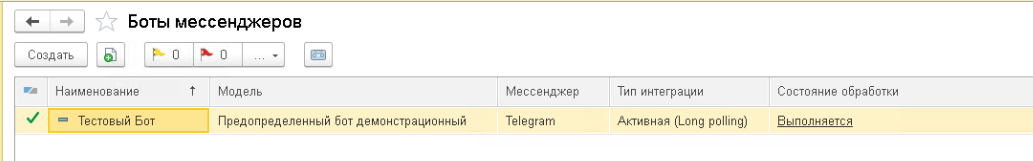
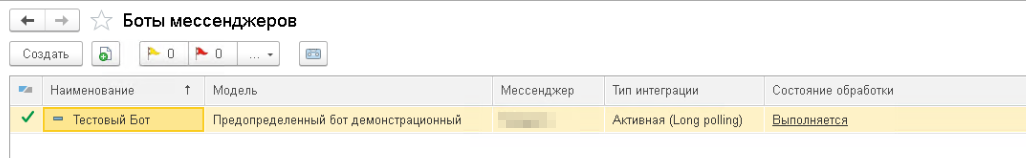
docs: restructure quick start guides

diff --git a/docs/getting-started/telegram.md b/docs/getting-started/telegram.md
@@ -1,0 +1,86 @@
+# 🚀 Быстрый старт
+
+Инструкция позволяет выполнить базовую настройку РИМ и запустить демонстрационного Telegram-бота.
+
+!!! info "Совместимость"
+
+    Руководство актуально для версии РИМ `2.0.0.0`.
+
+!!! tip "Что потребуется"
+
+    Перед началом настройки:
+
+    - Установите расширение РИМ
+    - Подготовьте учетные данные платформы мессенджера
+
+    Информация о получении учетных данных
+    приведена в соответствующих разделах документации.
+
+---
+
+## 📦 Установка
+
+Установите расширение РИМ и предоставьте необходимые разрешения, как показано на скриншоте ниже.
+
+[![Установка расширения РИМ](../img/extension-install.png)](../img/extension-install.png)
+
+---
+
+## 🤖 Создание тестового бота
+
+Бот — это основной компонент РИМ. Он принимает входящие события от мессенджеров и определяет, как система должна на них реагировать.
+
+!!! info "Демонстрационный бот"
+
+    РИМ не включает готовых ботов для промышленного использования, однако содержит демонстрационный бот, который можно использовать для проверки работы системы.
+
+### 1⃣ Создание бота
+
+Откройте справочник `Боты мессенджеров` в подсистеме `Интеграция мессенджеров`.
+
+Создайте нового бота и заполните:
+
+- **Наименование** — произвольное имя
+- **Параметры бота** — выберите параметры `Telegram`
+- **Модель** — выберите `Предопределенный бот (демонстрационный)`
+
+[![Создание бота](../img/bot-create.png)](../img/bot-create.png)
+
+---
+
+### 2⃣ Настройка параметров
+
+Создайте параметры для нового бота.
+
+Заполните:
+
+- **Наименование** — произвольное имя
+- **Токен** — токен Telegram-бота, полученный через [BotFather](https://telegram.me/BotFather)
+
+После заполнения сохраните изменения.
+
+[![Параметры бота](../img/telegram-params.png)](../img/telegram-params.png)
+
+Для проверки корректности настроек выполните команду `Проверить подключение`.
+
+При успешном подключении отобразится окно с информацией о боте.
+
+Созданные параметры укажите в поле **Параметры бота** при настройке бота.
+
+---
+
+### 3⃣ Проверка бота
+
+После установки параметров выполните запись нового бота.
+
+После записи в списке ботов в колонке **Состояние обработки** должно отображаться значение `Выполняется`.
+
+[![Состояние обработки](../img/bot-status.png)](../img/bot-status.png)
+
+Это означает, что бот готов к обработке входящих сообщений и отправке ответов.
+
+После откройте Telegram, начните новый чат с ботом и отправьте любое сообщение.
+
+!!! success "Проверка подключения выполнена"
+
+    ![Проверка работы бота Telegram(../img/telegram-bot-response.png)](../img/telegram-bot-response.png)

diff --git a/docs/getting-started/vk.md b/docs/getting-started/vk.md
@@ -1,0 +1,93 @@
+# 🚀 Быстрый старт
+
+Инструкция позволяет выполнить базовую настройку РИМ и запустить демонстрационного бота ВКонтакте.
+
+!!! info "Совместимость"
+
+    Руководство актуально для версии РИМ `2.0.0.0`.
+
+!!! tip "Что потребуется"
+
+    Перед началом настройки:
+
+    - Установите расширение РИМ
+    - Подготовьте учетные данные платформы мессенджера
+
+    Информация о получении учетных данных
+    приведена в соответствующих разделах документации.
+
+---
+
+## 📦 Установка
+
+Установите расширение РИМ и предоставьте необходимые разрешения, как показано на скриншоте ниже.
+
+[![Установка расширения РИМ](../img/extension-install.png)](../img/extension-install.png)
+
+---
+
+## 🤖 Создание тестового бота
+
+Бот — это основной компонент РИМ. Он принимает входящие события от мессенджеров и определяет, как система должна на них реагировать.
+
+!!! info "Демонстрационный бот"
+
+    РИМ не включает готовых ботов для промышленного использования, однако содержит демонстрационный бот, который можно использовать для проверки работы системы.
+
+### 1⃣ Создание бота
+
+Откройте справочник `Боты мессенджеров` в подсистеме `Интеграция мессенджеров`.
+
+Создайте нового бота и заполните:
+
+- **Наименование** — произвольное имя
+- **Параметры бота** — выберите параметры `ВКонтакте`
+- **Модель** — выберите `Предопределенный бот (демонстрационный)`
+
+[![Создание бота](../img/bot-create.png)](../img/bot-create.png)
+
+---
+
+### 2⃣ Настройка параметров
+
+Создайте параметры для нового бота.
+
+Заполните:
+
+- **Наименование** — произвольное имя
+- **Токен** — ключ доступа сообщества ВКонтакте
+- **Идентификатор сообщества** — ID сообщества ВКонтакте
+
+После заполнения сохраните изменения.
+
+[![Параметры бота](../img/vk-params.png)](../img/vk-params.png)
+
+Созданные параметры укажите в поле **Параметры бота** при настройке бота.
+
+---
+
+### 3⃣ Проверка бота
+
+После установки параметров выполните запись нового бота.
+
+После записи в списке ботов в колонке **Состояние обработки** должно отображаться значение `Выполняется`.
+
+[![Состояние обработки](../img/bot-status.png)](../img/bot-status.png)
+
+Это означает, что бот готов к обработке входящих сообщений и отправке ответов.
+
+Откройте сообщество ВКонтакте, начните диалог с ботом и отправьте сообщение:
+
+```text
+старт
+```
+
+или
+
+```text
+/start
+```
+
+!!! success "Проверка подключения выполнена"
+
+    ![Проверка работы бота ВКонтакте(../img/vk-bot-response.png)](../img/vk-bot-response.png)

diff --git a/docs/index.md b/docs/index.md
@@ -40,15 +40,16 @@
 
 ---
 
-### 📋 Требования
+### 📋 Требования и совместимость
 
-Платформа: `1С:Предприятие 8.3.27.1936` и выше  
+Платформа: `1С:Предприятие 8.3.27.1936` и выше.
 
-Тестирование проводилось на версии `8.3.27.1936`.  
-Работа на более ранних версиях не проверялась.
-Работа в файловом варианте информационной базы не гарантируется.
+Тестирование проводилось на версии платформы `8.3.27.1936`.
 
-### 🧪 Конфигурации
+!!! warning "Особенности совместимости"
+
+    - Работа на более ранних версиях платформы не проверялась
+    - Работа в файловом варианте информационной базы не гарантируется
 
 Тестирование выполнялось на следующих конфигурациях:
 
